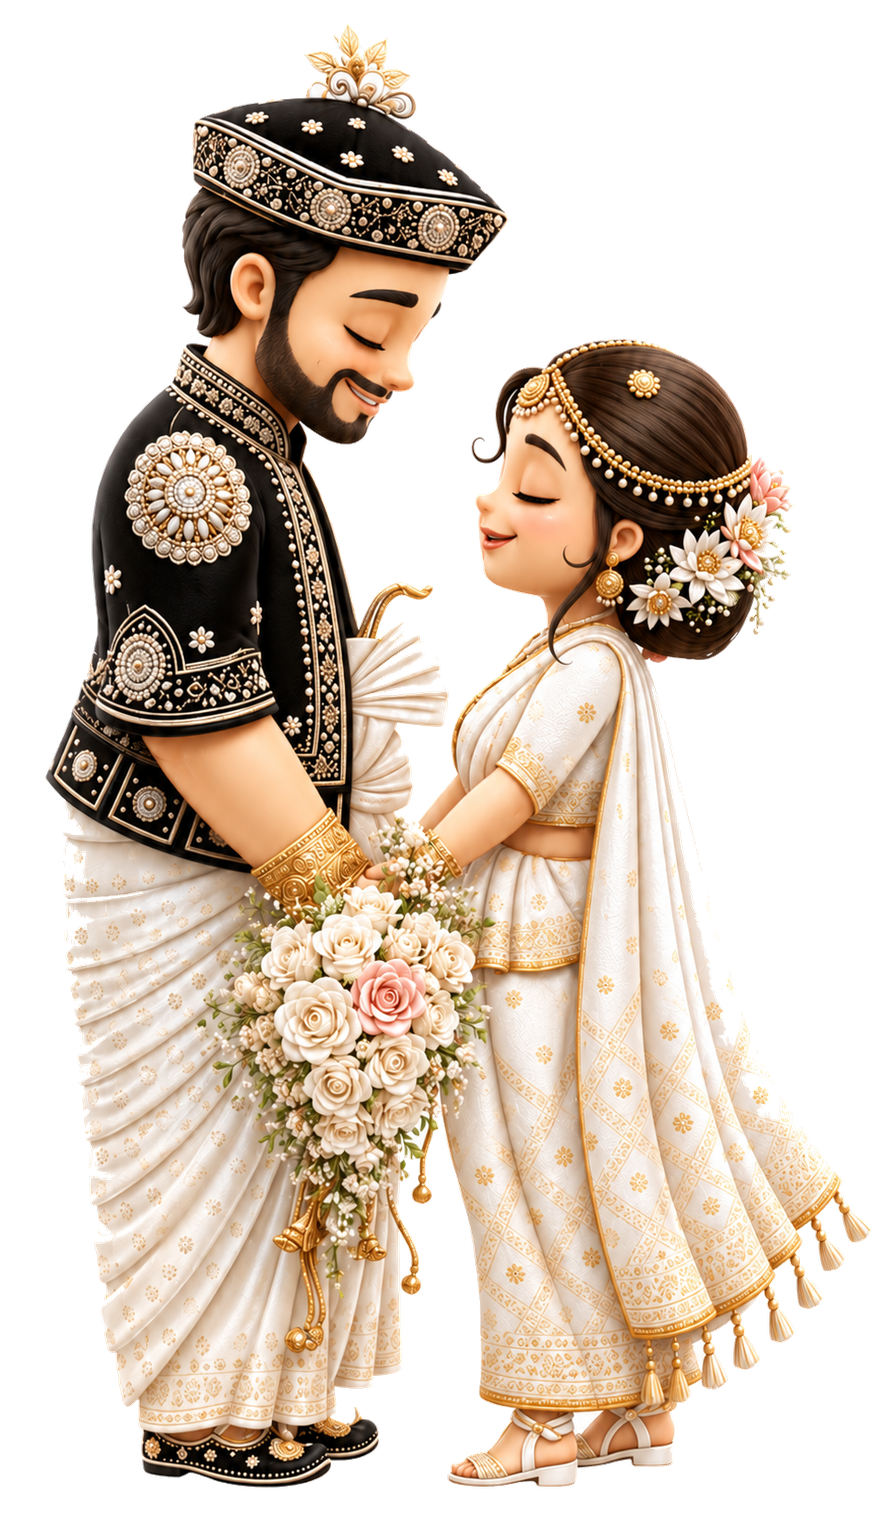
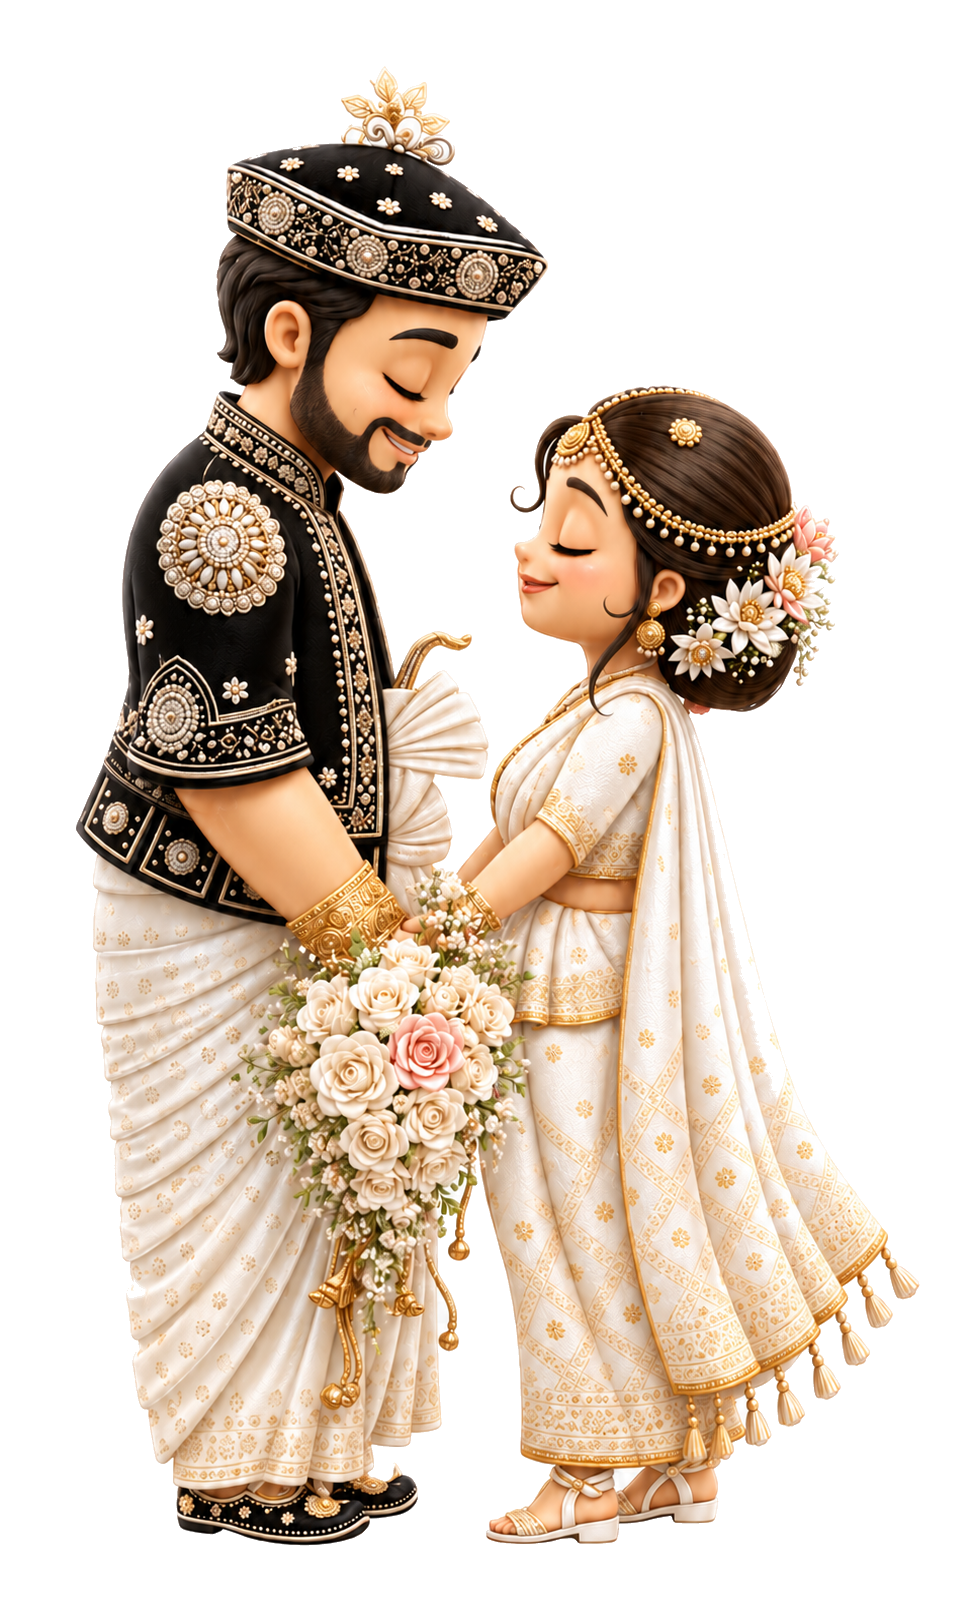
change css

diff --git a/css/style.css b/css/style.css
@@ -7112,5 +7112,5 @@ body.edit-mode .edit-toggle {
    Adjust these values only if needed.
 */
 #coupleBlinkImage.is-eye-closed {
-  transform: translateX(-8px) translateY(1px) scale(1.004) !important;
+  transform: translateX(-6px) translateY(10px) scale(1.099) !important;
 }